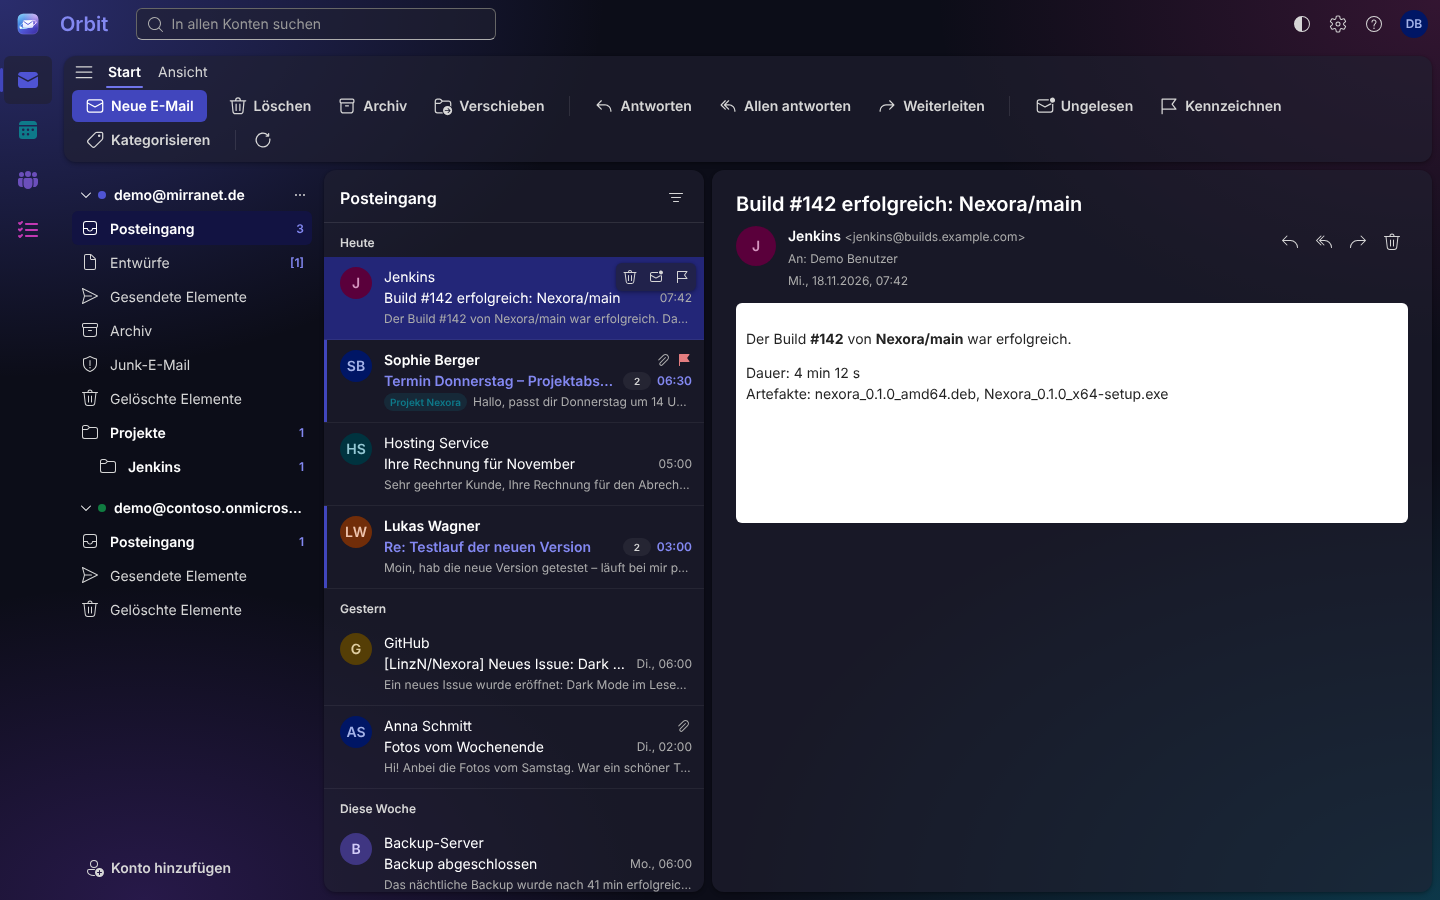
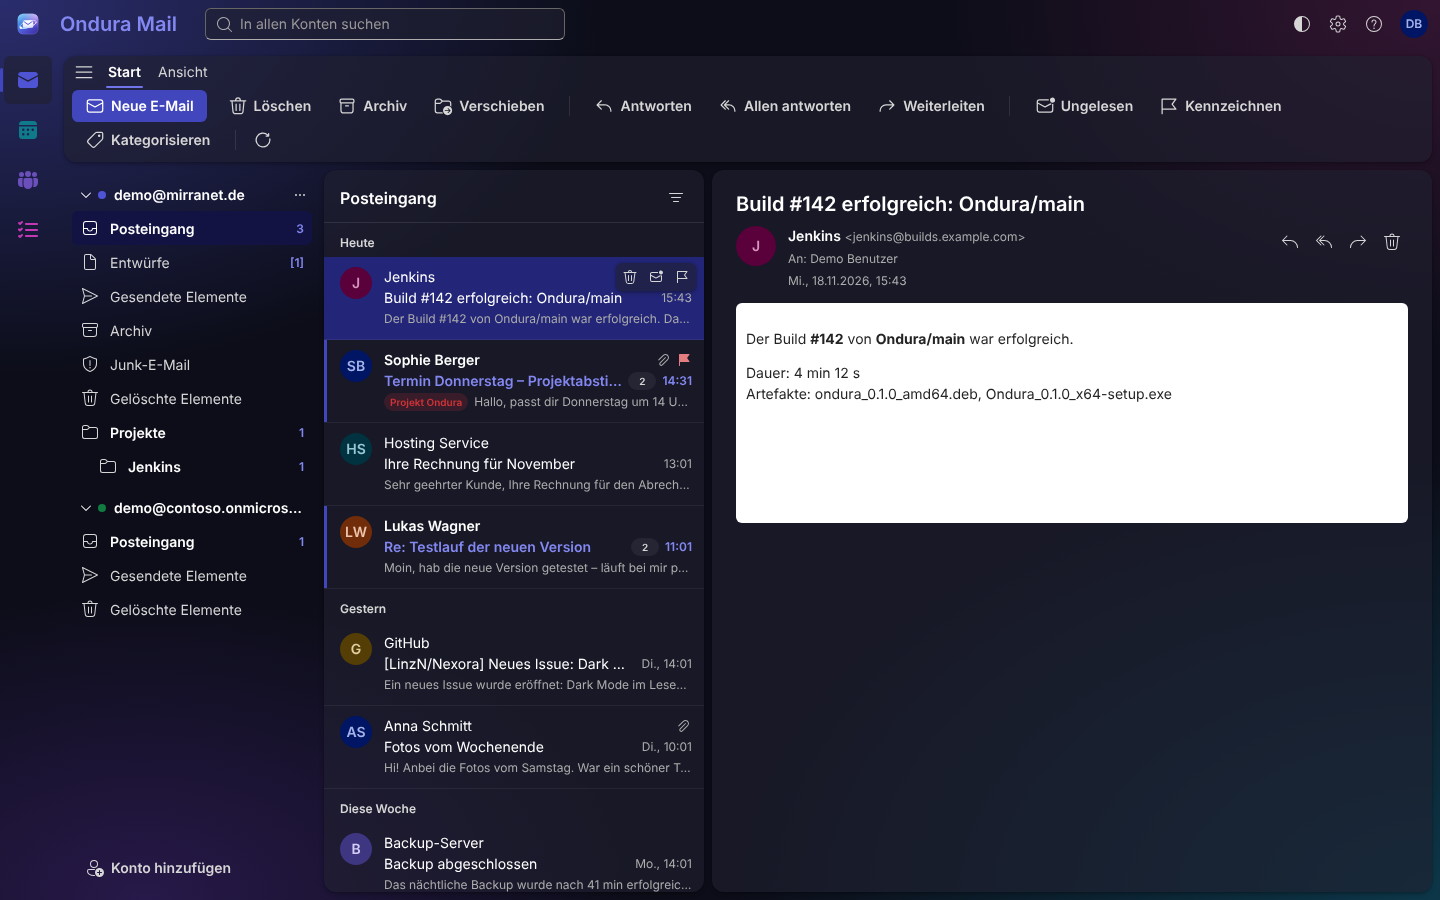
README: Ondura features, permissions and new screenshots
- Feature table and architecture updated (S/MIME, automatic replies,
  shared mailboxes, room finder, slide master/Morph/recording, mail
  merge, accessibility checker, macros; crates/smime).
- Microsoft 365 setup lists the new Graph permissions
  (MailboxSettings.ReadWrite, *.Shared, optional Place.Read.All).
- Tests section: S/MIME interop with OpenSSL, ManageSieve live test.
- All screenshots regenerated with the Ondura name and branding; new
  ones for signed mail with automatic replies, the accessibility
  checker and macros. Ondura Setup screenshot shows the new logo.

Claude-Session: https://claude.ai/code/session_018u6dQp5MznZjuAD1j969aW

diff --git a/apps/ondura/src/apps/sheets/macroHelp.tsx b/apps/ondura/src/apps/sheets/macroHelp.tsx
@@ -12,7 +12,7 @@ export const SHEET_MACRO_REFERENCE = (
     <code>workbook</code>: <code>activeSheet</code>, <code>sheets</code>, <code>sheet(name)</code>, <code>addSheet(name)</code>, <code>selection</code> ·{" "}
     <code>sheet.range("A1:C3")</code>, <code>sheet.cells(zeile, spalte, zeilen, spalten)</code>, <code>sheet.usedRange()</code> · Bereich:{" "}
     <code>values</code>, <code>value</code>, <code>formulas</code>, <code>setValue(v)</code>, <code>setValues([[…]])</code>, <code>setFormula("=SUMME(A1:A3)")</code>,{" "}
-    <code>setFormat({"{ bold, italic, color, fill, numberFormat, align, fontSize, wrap }"})</code>, <code>clear()</code>, <code>select()</code> ·{" "}
+    <code>setFormat({"{ bold, italic, color, fill, numberFormat, align, fontSize, wrap }"})</code> (Zahlenformate als Excel-Code, z. B. <code>"#,##0.00 €"</code>), <code>clear()</code>, <code>select()</code> ·{" "}
     <code>console.log(…)</code>. Ein Makro wird mit einem Schritt rückgängig gemacht.
   </>
 );

diff --git a/README.md b/README.md
@@ -11,17 +11,23 @@ An office suite for **Windows and Linux**, written in **Rust**, with a user inte
 | App | Status |
 | --- | --- |
 | **Ondura Mail**: e-mail, calendar, contacts and tasks in one window (like Outlook) | 🚧 first version |
-| ├ E-Mail: Microsoft 365 / Exchange Online, Exchange Server and IMAP | |
-| ├ Kalender: day, work week, week, month, recurring events, reminders | |
+| ├ E-Mail: Microsoft 365 / Exchange Online, Exchange Server and IMAP; S/MIME signing and encryption, automatic replies, shared mailboxes | |
+| ├ Kalender: day, work week, week, month, recurring events, reminders, scheduling assistant and room finder | |
 | ├ Kontakte: address books, vCard import, address completion when writing mail | |
 | └ Aufgaben: task lists in the style of Microsoft To Do | |
-| **Ondura Text**: word processor with a Word-like page view, comments, tracked changes, footnotes/endnotes, sections and table of contents, `.docx` and `.odt` | 🚧 first version |
-| **Ondura Tabellen**: spreadsheets with ~180 functions, charts, pivot tables (grouping, filters), sparklines, data validation, conditional formatting, filters and named ranges, `.xlsx` and `.ods` | 🚧 first version |
-| **Ondura Präsentation**: slides with tables, charts, editable SmartArt, audio/video, entrance/emphasis/exit animations, motion paths and transitions, slide show and presenter view, `.pptx` and `.odp` | 🚧 first version |
+| **Ondura Text**: word processor with a Word-like page view, styles, comments, tracked changes, footnotes/endnotes, captions, citations and bibliography, sections and table of contents, mail merge, content controls, macros, `.docx` and `.odt` | 🚧 first version |
+| **Ondura Tabellen**: spreadsheets with ~180 functions, dynamic arrays, Excel tables, charts, pivot tables (grouping, filters), sparklines, what-if analysis and solver, data validation, conditional formatting, macros (with recorder), `.xlsx` and `.ods` | 🚧 first version |
+| **Ondura Präsentation**: slides with slide master, tables, charts, editable SmartArt, audio/video, animations, motion paths, transitions incl. Morph, slide zoom and links, pen and laser pointer, rehearsed timings and recorded narration, video export, presenter view, `.pptx` and `.odp` | 🚧 first version |
 
 | Text | Tabellen | Präsentation |
 | --- | --- | --- |
 | ![Text](docs/screenshots/text.png) | ![Tabellen](docs/screenshots/sheets.png) | ![Präsentation](docs/screenshots/slides.png) |
+
+All three office apps have an accessibility checker (*Überprüfen › Barrierefreiheit überprüfen*): missing alternative texts and slide titles, tables without header rows, merged cells, skipped heading levels and text with too little contrast (WCAG 2.1), each with an explanation and, where possible, a one-click fix.
+
+| Signed mail and automatic replies | Accessibility checker | Macros |
+| --- | --- | --- |
+| ![Signierte Nachricht und Abwesenheitsnotiz](docs/screenshots/mail-security.png) | ![Barrierefreiheit](docs/screenshots/accessibility.png) | ![Makros in Tabellen](docs/screenshots/macros.png) |
 
 The office apps read and write the Microsoft Office formats and the OpenDocument formats of LibreOffice directly (no conversion step) and export PDF files (*Datei › Als PDF exportieren*). What a file contains beyond the apps' model is listed under *Datei › Informationen* when the file is opened; a save in the OpenDocument format says what it could not keep. SmartArt from PowerPoint opens as an editable graphic (items, levels and layout come from its data model); Ondura saves SmartArt as a group of shapes that other apps show and Ondura can edit again.
 
@@ -42,7 +48,8 @@ Ondura/
 │   ├── pim-core/     # calendars, contacts, tasks: model, SQLite store, iCalendar/vCard,
 │   │                 #   recurrence expansion, sync engine, reminders
 │   ├── pim-dav/      # CalDAV + CardDAV adapter (Nextcloud, Radicale, mailbox.org, iCloud, …)
-│   └── office/       # .docx / .xlsx / .pptx reader and writer (Office Open XML)
+│   ├── smime/        # S/MIME in pure Rust: X.509, PKCS#12, CMS signing and encryption
+│   └── office/       # Office Open XML and OpenDocument reader and writer
 └── apps/
     └── ondura/       # the desktop suite (Tauri 2)
         ├── src/          # UI: React + Fluent UI 9 (Microsoft's own design system)
@@ -67,6 +74,10 @@ Ondura/
 * **Calendars, contacts and tasks** use the same local-first design (`crates/pim-core`). `PimEngine` mirrors every collection into `pim.sqlite`, syncs every 5 minutes and on demand, and fires reminder notifications. Recurring events are stored as series (RRULE, EXDATE, overrides) and expanded for the visible window, so editing "only this occurrence" or "the whole series" works the same for every backend. Calendars on this computer work without any account.
 * **Design.** Familiar Outlook layout with its own look: the "Ondura Indigo" brand colour, a soft colour backdrop and translucent glass surfaces in the spirit of Apple's materials; menus, popovers and dialogs blur what lies beneath (`src/shell/theme.tsx`, `src/styles.css`).
 * **Privacy.** HTML mail is shown in a sandboxed iframe with a strict CSP: scripts never run, and remote images (tracking pixels) are blocked until the user allows them.
+* **S/MIME.** Own certificates are imported from `.p12`/`.pfx` (*Einstellungen › S/MIME*); the private key goes to the OS credential store. Messages can be signed and encrypted for all three account types (IMAP sends the MIME over SMTP, Exchange via `CreateItem`, Microsoft 365 via MIME `sendMail`). Received signatures are checked, including the issuer chain against the Mozilla root store; the reading pane shows whether a signature is valid, trusted and from the sender. Certificates of people who sent a signed message are remembered, so replies can be encrypted. Encrypted messages stay encrypted in the local store and are opened only for display. The crypto (`crates/smime`) is pure Rust and tested both ways against OpenSSL.
+* **Automatic replies** are stored on the server, so they work while Ondura is closed: `mailboxSettings` (Microsoft 365), `Get/SetUserOofSettings` (Exchange) or a Sieve `vacation` script uploaded via ManageSieve (IMAP servers such as Dovecot). An already active Sieve script keeps working: Ondura's script includes it and hands control back when the reply is switched off.
+* **Shared mailboxes** (*Ansicht › Freigegebenes Postfach*) open with the rights of a Microsoft 365 or Exchange account and appear as their own account with mail, calendar and contacts.
+* **Macros** are JavaScript scripts with a small object model (like Excel's Office Scripts) in Tabellen and Text. They are kept in the local profile, never in documents, so opening a file can't run code; VBA macros in `.xlsm`/`.docm` files are not run.
 
 ### Exchange support
 
@@ -76,14 +87,14 @@ Microsoft is switching off EWS in Exchange Online: it is being disabled step by 
 | --- | --- | --- |
 | Microsoft 365 / Exchange Online / Outlook.com | **Microsoft Graph** (delta sync, OAuth 2.0 + PKCE) | ✅ |
 | Exchange Server 2013 SP1+ (on-premises) | **EWS** (`SyncFolderItems`, MIME bodies), NTLMv2 or Basic | ✅ |
-| Any other mail server | **IMAP + SMTP** (TLS / STARTTLS) | ✅ |
+| Any other mail server | **IMAP + SMTP** (TLS / STARTTLS), automatic replies via **ManageSieve** | ✅ |
 
 Calendars, contacts and tasks:
 
 | Server | Calendar | Contacts | Tasks |
 | --- | --- | --- | --- |
-| Microsoft 365 (Graph) | ✅ `calendarView`, series | ✅ | ✅ Microsoft To Do |
-| Exchange Server (EWS) | ✅ `CalendarView`, series | ✅ | – |
+| Microsoft 365 (Graph) | ✅ `calendarView`, series, free/busy, rooms | ✅ | ✅ Microsoft To Do |
+| Exchange Server (EWS) | ✅ `CalendarView`, series, free/busy, rooms | ✅ | – |
 | CalDAV / CardDAV (Nextcloud, Radicale, …) | ✅ | ✅ | ✅ (`VTODO`) |
 | On this computer | ✅ | ✅ | ✅ |
 
@@ -97,7 +108,7 @@ Graph needs an app registration in Microsoft Entra ID:
 2. Name: `Ondura`. Supported account types: *Accounts in any organizational directory and personal Microsoft accounts*.
 3. Redirect URI: platform **Public client/native (mobile & desktop)**, URI `http://localhost`. Any port is allowed for loopback.
 4. Under *Authentication*, set **Allow public client flows** to *Yes*.
-5. Under *API permissions*, add these delegated Microsoft Graph permissions: `offline_access`, `User.Read`, `Mail.ReadWrite`, `Mail.Send`, `Calendars.ReadWrite`, `Contacts.ReadWrite`, `Tasks.ReadWrite` and `Files.ReadWrite` (only used to share attachments over 150 MB via OneDrive).
+5. Under *API permissions*, add these delegated Microsoft Graph permissions: `offline_access`, `User.Read`, `Mail.ReadWrite`, `Mail.Send`, `Calendars.ReadWrite`, `Contacts.ReadWrite`, `Tasks.ReadWrite`, `Files.ReadWrite` (only used to share attachments over 150 MB via OneDrive), `MailboxSettings.ReadWrite` (automatic replies) and `Mail.ReadWrite.Shared`, `Mail.Send.Shared`, `Calendars.ReadWrite.Shared`, `Contacts.ReadWrite.Shared` (shared mailboxes). Optional: `Place.Read.All` for the room finder; it needs admin consent and is never asked for at sign-in. Accounts signed in before a permission was added are asked to sign in again when they first use the feature.
 6. Copy the *Application (client) ID*. Either enter it in the "add account" dialog, or bake it into the build (then the field is hidden under *Erweiterte Einstellungen*). For Outlook.com/Hotmail accounts, tick *Privates Microsoft-Konto* in the dialog; it signs in through the `consumers` endpoint instead of `common`.
    Personal Microsoft accounts cannot register apps on their own; create a free Entra directory first (e.g. via the Azure free account).
    ```sh
@@ -170,6 +181,14 @@ cargo clippy --workspace --all-targets
 
 The office formats are tested with fixtures created by python-docx, openpyxl and python-pptx (`crates/office/tests`), including round trips (read → write → read).
 
+S/MIME is tested against fixtures made with OpenSSL 3 (`crates/smime/tests/fixtures`): PKCS#12 files in the OpenSSL 3, Windows (3DES) and legacy (RC2) formats, detached and opaque signatures, AES, 3DES and RSA-OAEP encryption. Messages signed and encrypted by Ondura were verified and decrypted with `openssl smime`.
+
+Automatic replies via ManageSieve have a test against a real server (e.g. Dovecot with Pigeonhole and `managesieve` on port 4190):
+
+```sh
+ONDURA_SIEVE_TEST=127.0.0.1:niklas:geheim cargo test -p ondura-mail-imap live_server
+```
+
 The Graph and EWS adapters are tested against mock servers (`crates/mail-graph/tests`, `crates/mail-ews/tests`); the EWS test includes the NTLM handshake, whose crypto is checked against the MS-NLMP test vectors.
 
 The IMAP adapter has an integration test that runs against a real server (for example a local Dovecot) and covers sync, IDLE, flags, the action queue, move/delete, drafts and loading older messages:
@@ -204,6 +223,9 @@ Done:
 - [x] Server-side search (IMAP, Graph, EWS)
 - [x] Trusting self-signed certificates (pinned SHA-256 fingerprint)
 - [x] Rules, categories, delayed sending
+- [x] S/MIME: sign, encrypt, verify, decrypt; certificate import (.p12/.pfx)
+- [x] Automatic replies (Graph, EWS, Sieve/ManageSieve)
+- [x] Shared mailboxes (Graph, EWS)
 
 Next:
 
@@ -214,7 +236,8 @@ Next:
 
 - [x] Meeting invitations: answer (accept/decline) and send invites from the calendar
 - [x] Drag & drop to move and resize events
-- [x] Free/busy lookup (Graph, EWS)
+- [x] Free/busy lookup and scheduling assistant (Graph, EWS)
+- [x] Room finder (Graph `places`, EWS room lists)
 - [x] Contact groups, photos, vCard export
 - [x] Subtasks, recurring tasks, reminders for tasks
 
@@ -237,6 +260,10 @@ Next:
 - [x] Tabellen: dynamic arrays, Excel tables, what-if analysis and solver, combo/waterfall/histogram/funnel charts
 - [x] Tabellen: notes, hyperlinks, sheet protection, outline, page layout and printing, formula auditing, text to columns, flash fill
 - [x] Text: spell checking (German with compound words, English), personal dictionary
+- [x] Text: style management, captions/cross-references, citations and bibliography, index, mail merge, content controls
+- [x] Präsentation: slide master, Morph, slide zoom, links, connectors, pen/laser pointer, rehearsed timings, recorded narration, video export
+- [x] Accessibility checker in Text, Tabellen and Präsentation (alternative texts are saved in all formats)
+- [x] Macros (JavaScript) in Tabellen (with recorder) and Text
 
 ## Third-party data
 
